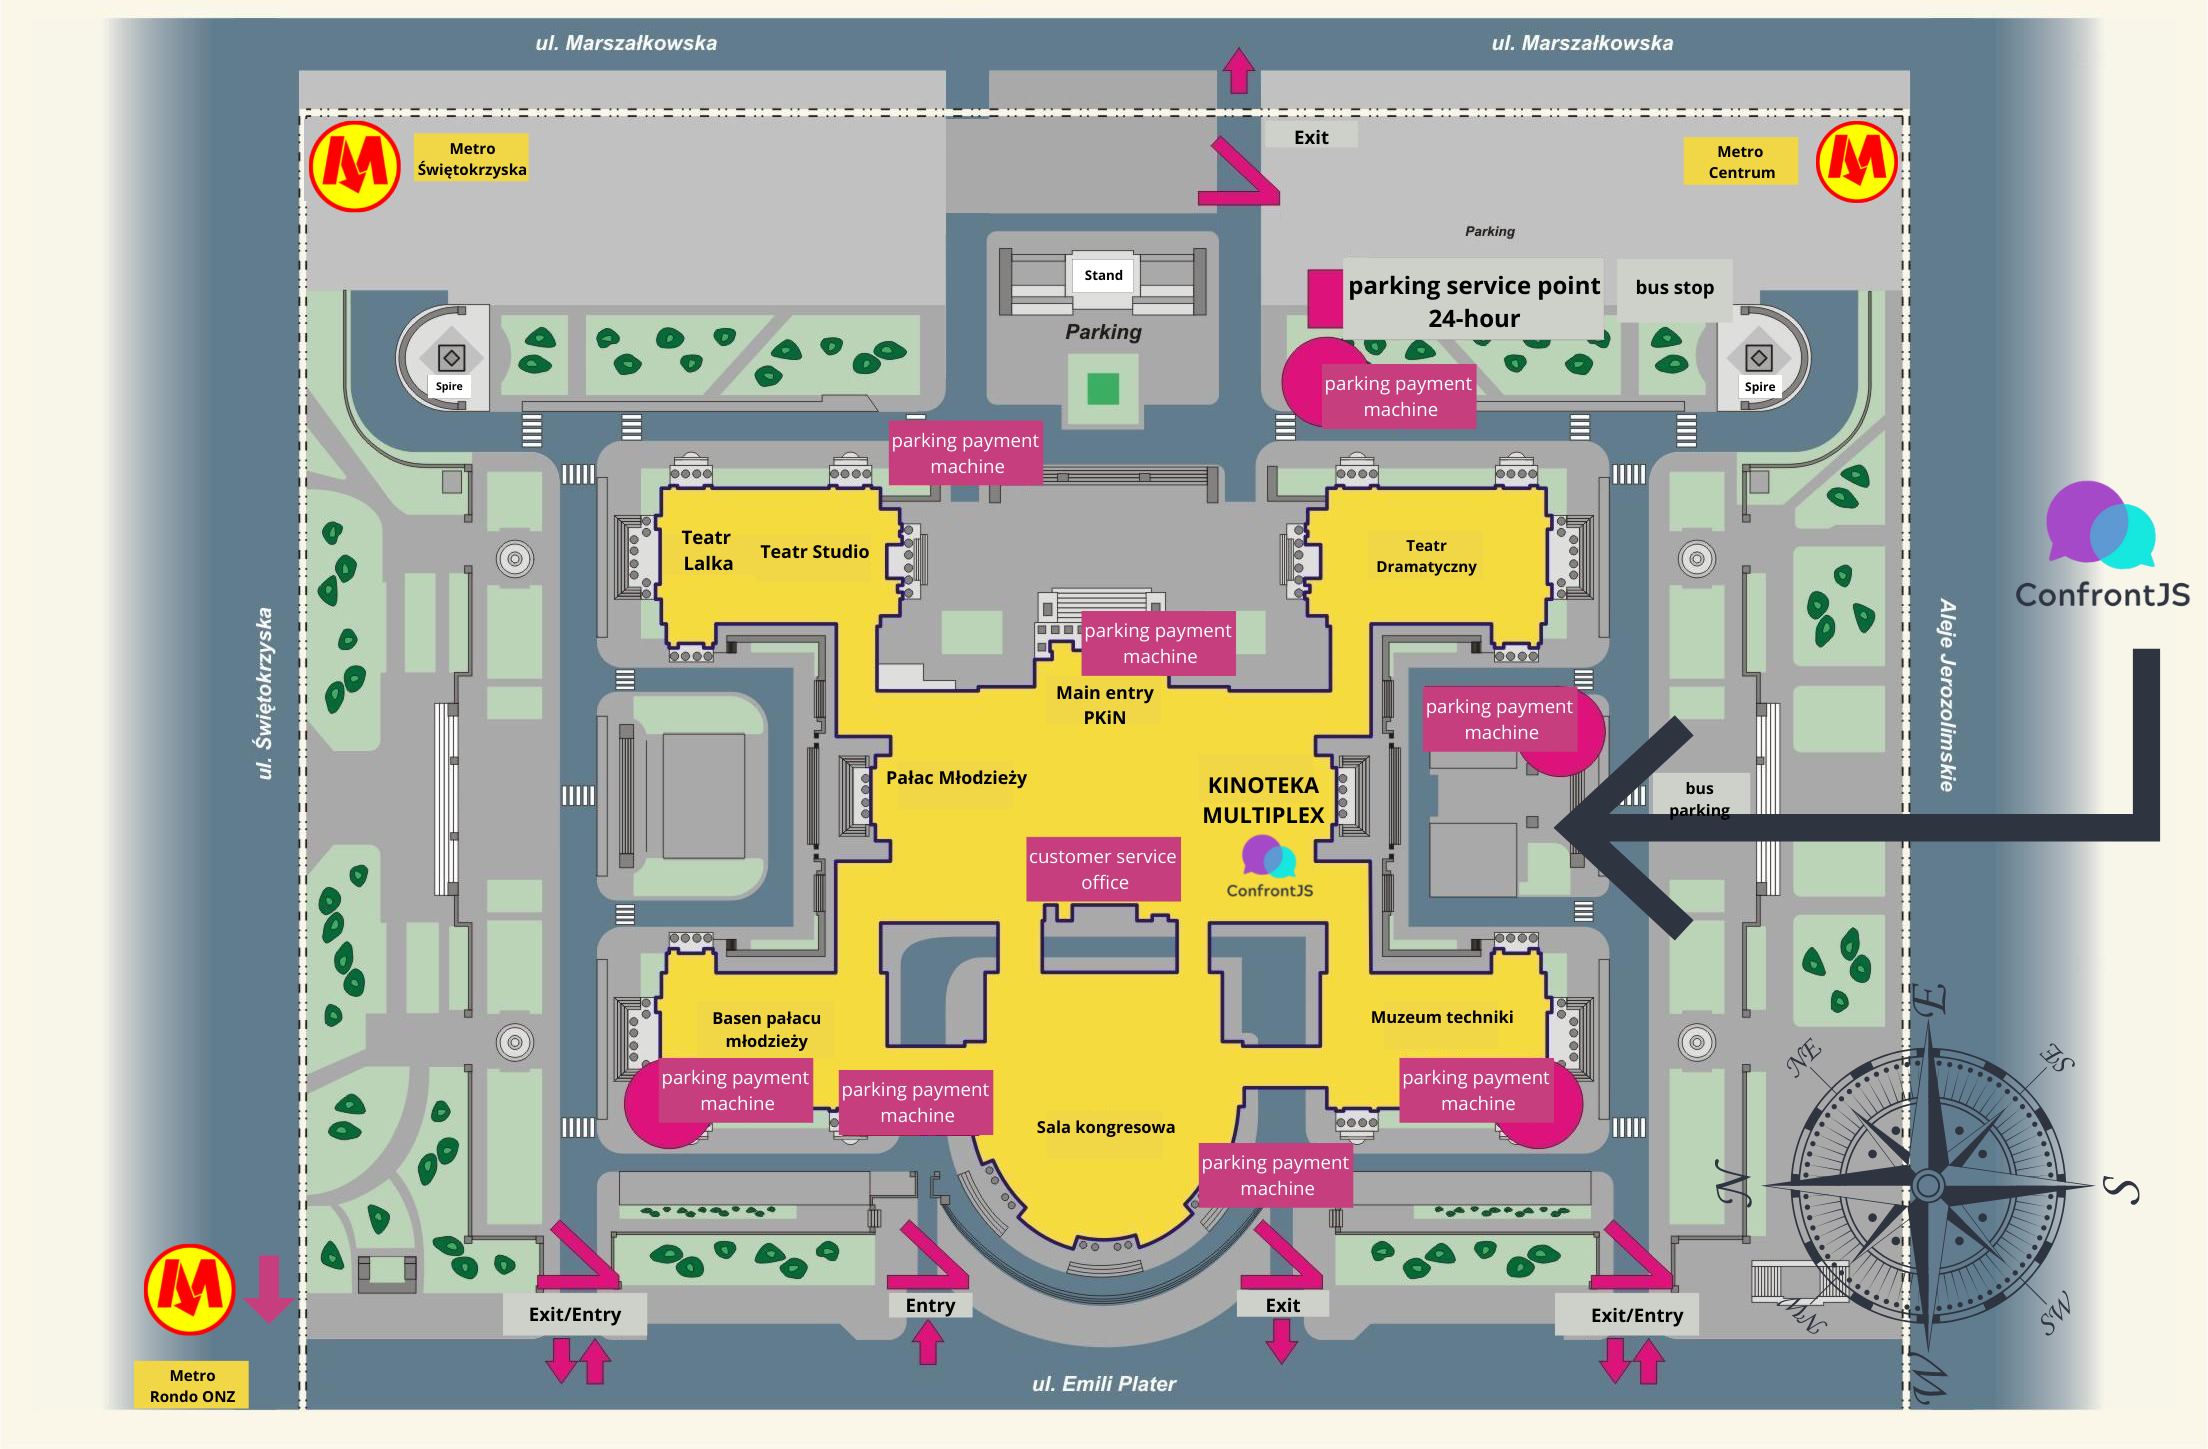
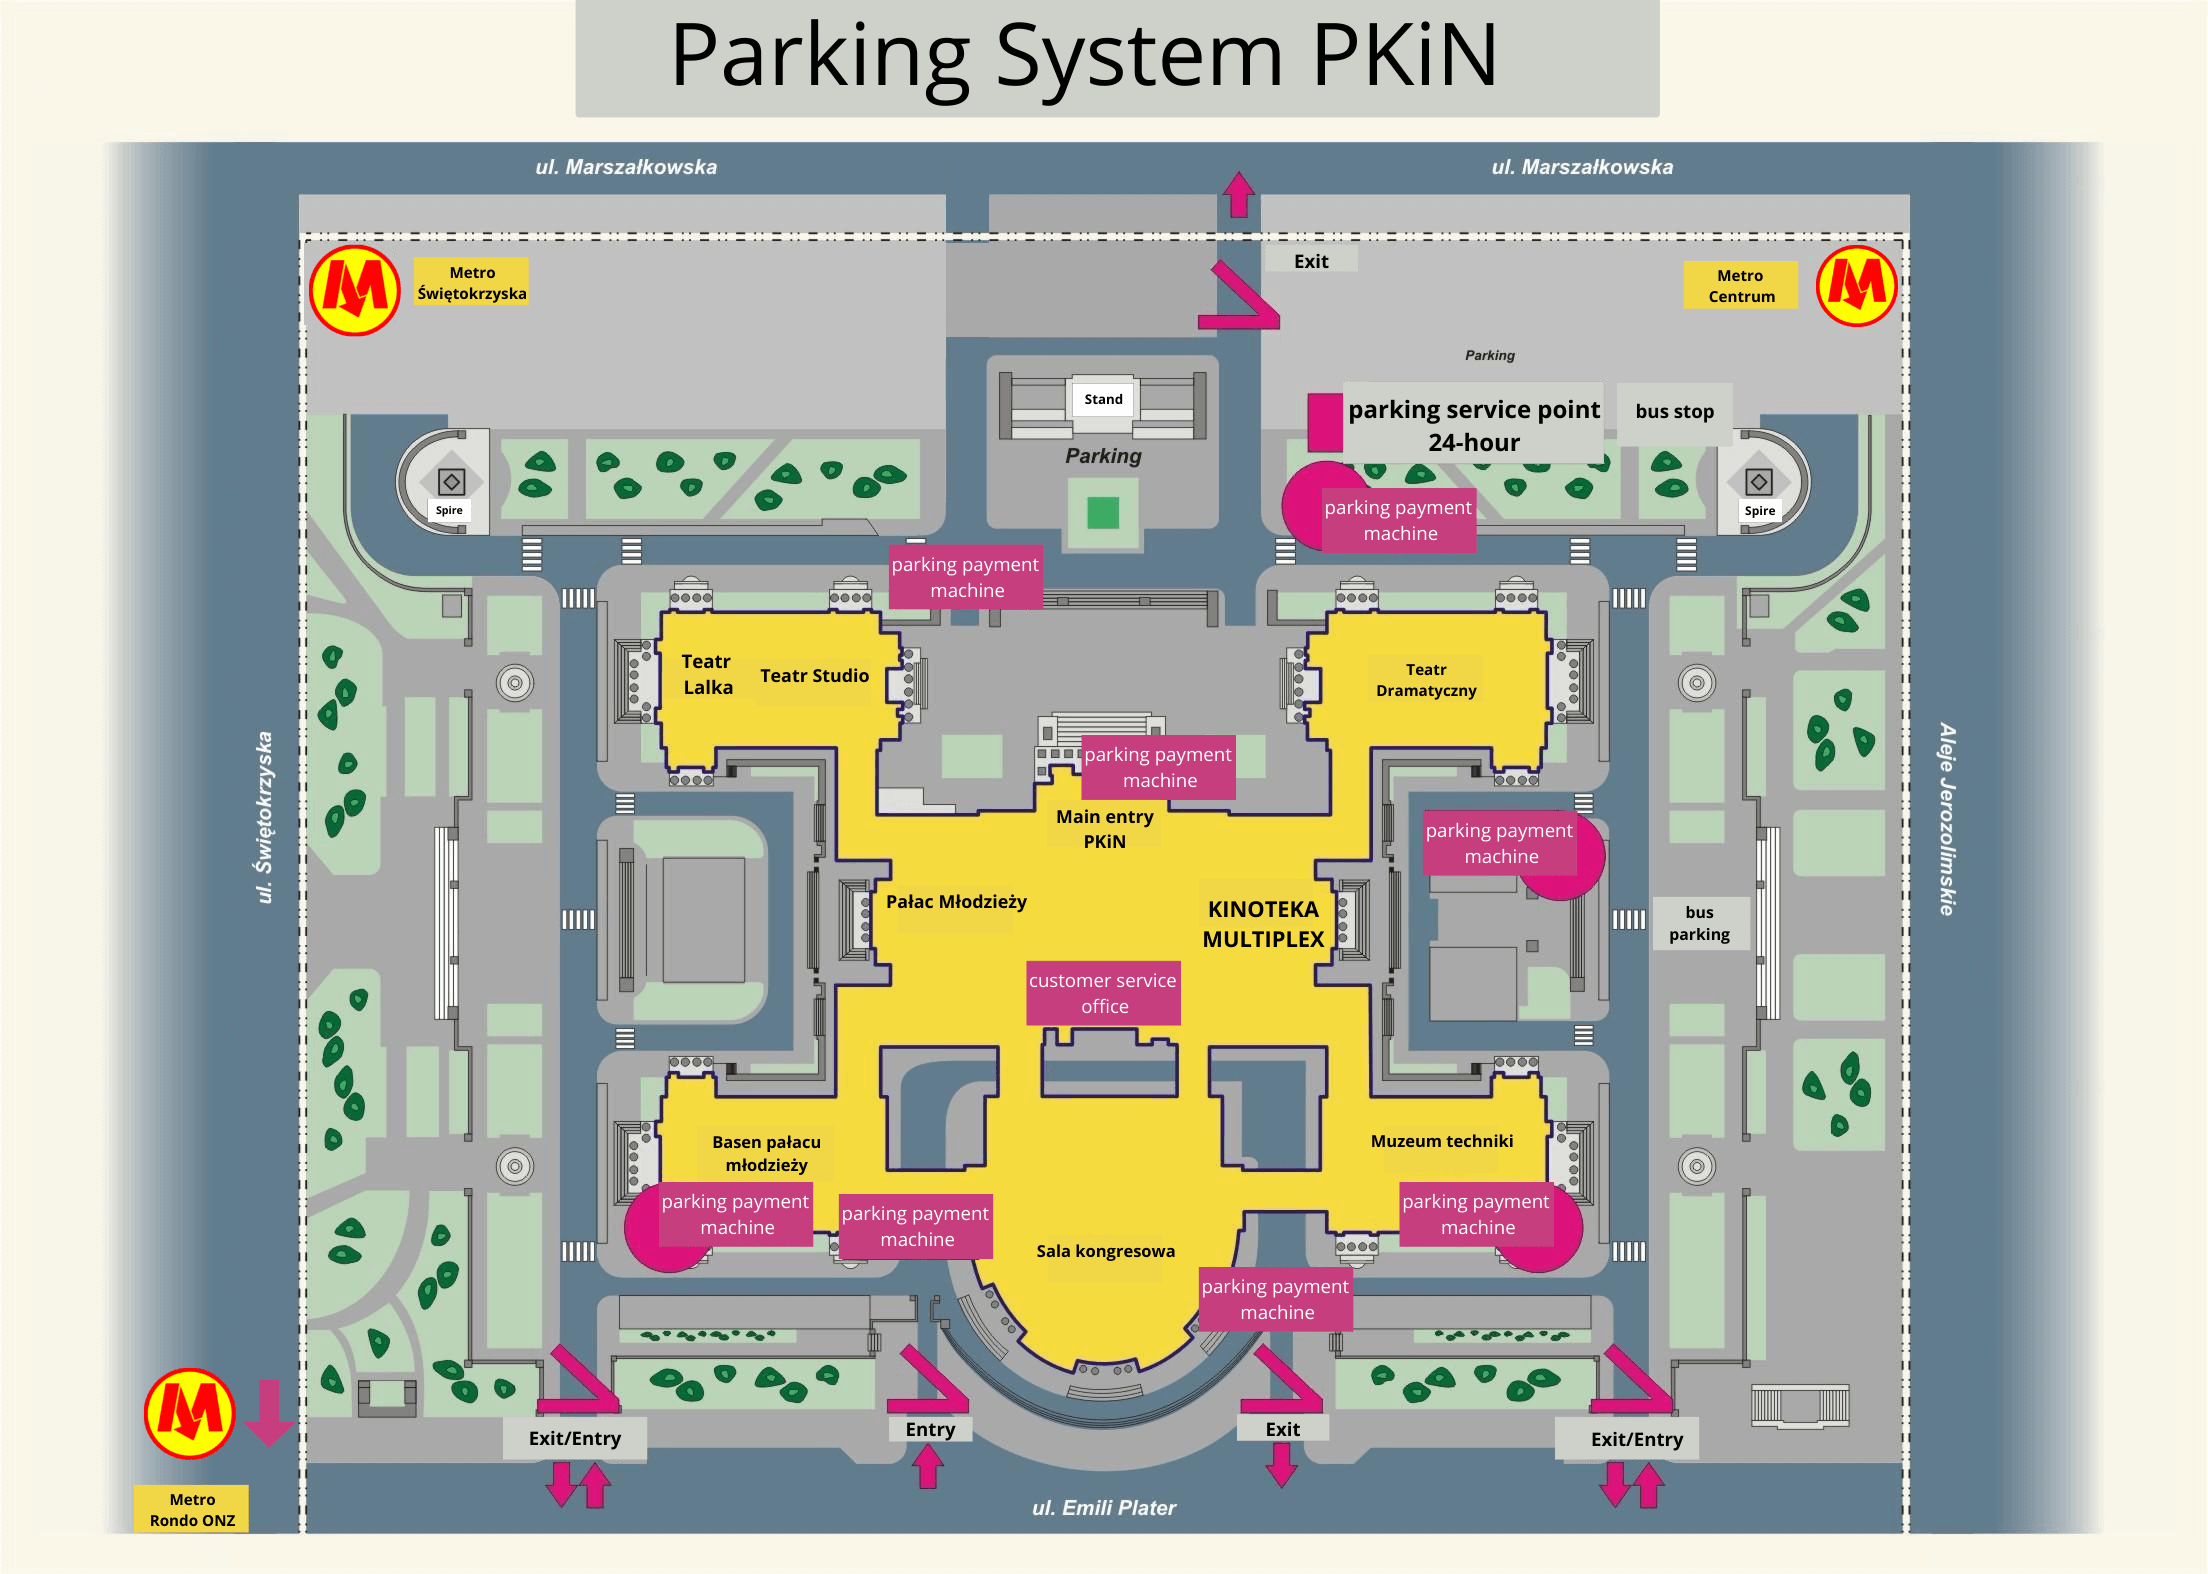
Revert "refactor(Homepage): replace buy ticket and sponsor offer buttons with map with directions, replace map with the new one"
This reverts commit 148f68f96f4aa4a002e3a4e259d7555c0e46ad08.

diff --git a/src/components/sections/Intro.svelte b/src/components/sections/Intro.svelte
@@ -4,12 +4,13 @@
 
 <style>
     .intro-container {
+        padding: 10px;
         text-align: center;
         color: var(--night-color);
     }
 
     .logo-confrontjs {
-        height: 200px;
+        height: 300px;
     }
 
     p {
@@ -25,39 +26,14 @@
     p.subline {
         font-size: 24px;
     }
-        .parking-img-homepage {
-            width: 100%
-        }
-
-     @media(min-width: 768px) and (max-width: 1199px) {
-        .parking-img-homepage {
-            height: 400px;
-            width: auto;
-        }
-    }
-    @media(min-width: 1200px) {
-        .parking-img-homepage {
-            height: 500px;
-            width: auto;
-        }
-    }
-    .text-custom {
-        color: var(--mix-color);
-        font-size: 27px;
-    }
-    .cheers {
-        font-size: 24px;
-    }
 </style>
 
 <div class="intro-container">
 
     <img class="logo-confrontjs" src="/ConfrontJS_logo_512_szara.png" alt="ConfrontJS logo" />
 
-        <div class="text-center mb-5 pb-5">
-        <img class="parking-img-homepage" src="/venue/parking-map.png" alt=""/>
-        <h3>In case if finding us were troublesome ask for <span class="text-custom">Kinoteka Cinema</span> in Palac Kultury! :)</h3>
-        <p class="cheers">✌ 💜 see you soon! 💜 ✌</p>
-    </div>
+    <p class="headline">Front-end Conference</p>
+
+    <p class="subline">26 March 2022 in Warsaw, Poland</p>
 
 </div>

diff --git a/src/routes/venue.svelte b/src/routes/venue.svelte
@@ -21,11 +21,6 @@
         max-width: 100%;
     }
     }
-
-    .text-custom {
-        color: var(--mix-color);
-        font-size: 27px;
-    }
 </style>
 
 <svelte:head>
@@ -42,9 +37,7 @@
     <Map/>
     <div class="text-center bg-white py-5 ">
         <img class="parking-img" src="/venue/parking-map.png" alt=""/>
-        <h3>In case if finding us were troublesome ask for <span class="text-custom">Kinoteka Cinema</span> in Palac Kultury! :)</h3>
     </div>
-
     <Parking/>
     <WaveType7/>
     <div class="row no-gutters">

diff --git a/src/routes/index.svelte b/src/routes/index.svelte
@@ -27,6 +27,8 @@
 
 <div class="index-page">
     <Intro/>
+    <CallToAction variant="primary" href="/buy-a-ticket">BUY TICKETS</CallToAction>
+    <CallToAction variant="secondary" href="https://drive.google.com/file/d/1PS2QVehOaypftOjTbACoTNAMx5cxa97V/view">OFFER FOR SPONSORS</CallToAction>
     <WaveType1/>
     <Agenda/>
     <WaveType2/>
